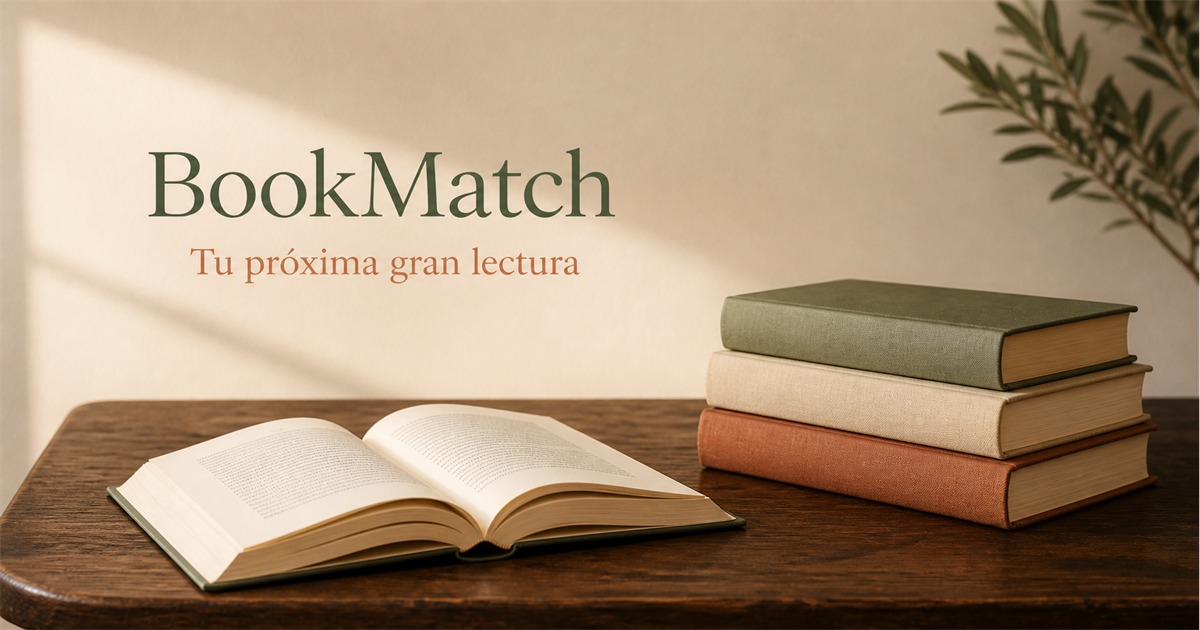
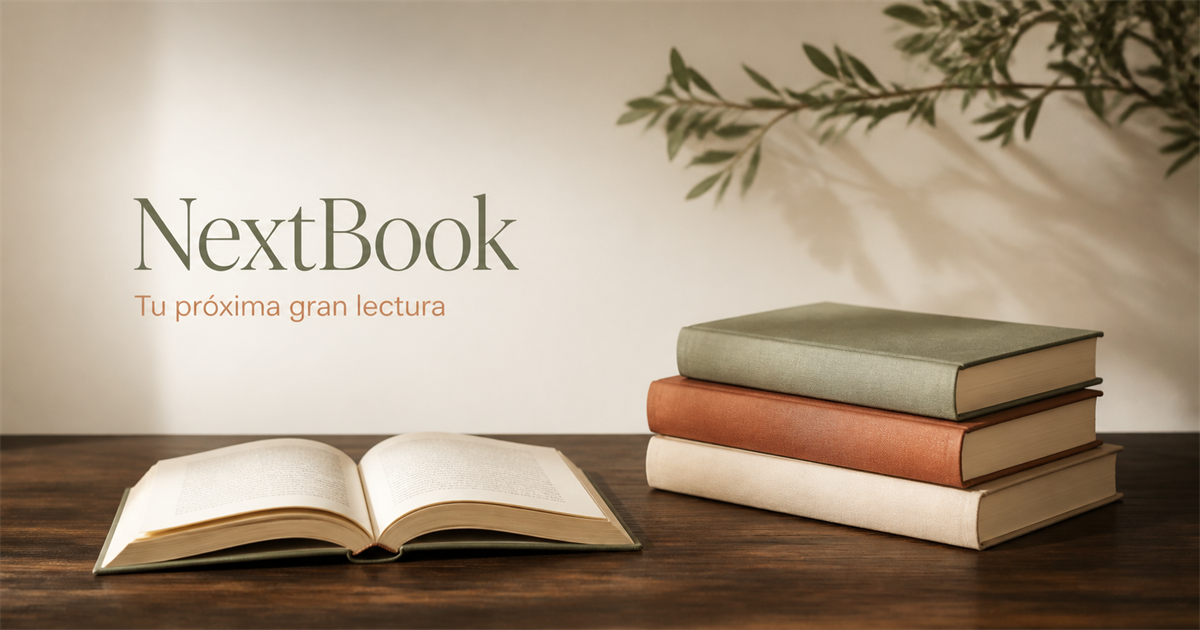
Rename BookMatch to NextBook

diff --git a/app/page.tsx b/app/page.tsx
@@ -110,9 +110,9 @@ export default function Home() {
 function Header({ results }: { results: boolean }) {
   return (
     <header className="mx-auto flex w-full max-w-7xl items-center justify-between px-5 py-5 sm:px-8 lg:px-10">
-      <a className="flex items-center gap-2.5" href="#top" aria-label="BookMatch, inicio">
+      <a className="flex items-center gap-2.5" href="#top" aria-label="NextBook, inicio">
         <span className="grid size-9 place-items-center rounded-full bg-primary text-primary-foreground"><BookOpen className="size-4" /></span>
-        <span className="font-heading text-xl font-semibold tracking-[-0.03em]">BookMatch</span>
+        <span className="font-heading text-xl font-semibold tracking-[-0.03em]">NextBook</span>
       </a>
       <span className="flex items-center gap-2 text-xs font-medium uppercase tracking-[.12em] text-muted-foreground sm:text-sm">
         <Check className="size-4 text-primary" /> {results ? 'Tu selección' : '250 libros analizados'}
@@ -200,7 +200,7 @@ function Question({ step, profile, update, toggleInterest }: QuestionProps) {
   );
 
   if (step === 3) return (
-    <QuestionFrame kicker="Una pista, no una jaula" title="¿Algún género preferido?" description="Puedes elegir uno o dejar que BookMatch te sorprenda.">
+    <QuestionFrame kicker="Una pista, no una jaula" title="¿Algún género preferido?" description="Puedes elegir uno o dejar que NextBook te sorprenda.">
       <div className="grid gap-2 sm:grid-cols-2">
         {genreOptions.map((genre) => <Choice compact key={genre.value} selected={profile.genre === genre.value} onClick={() => update('genre', genre.value)}>{genre.label}</Choice>)}
       </div>
@@ -253,8 +253,8 @@ function Results({ recommendations, profile, onRestart }: { recommendations: Ret
   return (
     <section id="top" className="mx-auto w-full max-w-7xl px-5 pb-20 pt-7 sm:px-8 lg:px-10">
       <div className="grid items-end gap-8 lg:grid-cols-[1fr_420px]">
-        <div><p className="eyebrow">Tu BookMatch</p><h1 className="mt-4 max-w-4xl font-heading text-[clamp(3.2rem,7vw,6.5rem)] leading-[.92] font-semibold tracking-[-0.065em]">Tres libros para tu <span className="text-primary italic">momento lector.</span></h1><p className="mt-6 max-w-2xl text-lg leading-8 text-muted-foreground">Hemos comparado tus respuestas con los 250 títulos del catálogo y estos son los que mejor encajan.</p></div>
-        <div className="overflow-hidden rounded-[1.5rem] border border-border bg-card"><img src="/og.png" alt="Libro abierto y una pila de libros de BookMatch" className="aspect-[1.9/1] h-full w-full object-cover" /></div>
+        <div><p className="eyebrow">Tu NextBook</p><h1 className="mt-4 max-w-4xl font-heading text-[clamp(3.2rem,7vw,6.5rem)] leading-[.92] font-semibold tracking-[-0.065em]">Tres libros para tu <span className="text-primary italic">momento lector.</span></h1><p className="mt-6 max-w-2xl text-lg leading-8 text-muted-foreground">Hemos comparado tus respuestas con los 250 títulos del catálogo y estos son los que mejor encajan.</p></div>
+        <div className="overflow-hidden rounded-[1.5rem] border border-border bg-card"><img src="/og.png" alt="Libro abierto y una pila de libros de NextBook" className="aspect-[1.9/1] h-full w-full object-cover" /></div>
       </div>
 
       <div className="mt-12 grid gap-5 lg:grid-cols-3">

diff --git a/app/layout.tsx b/app/layout.tsx
@@ -2,26 +2,26 @@ import type { Metadata } from 'next';
 import './globals.css';
 
 export const metadata: Metadata = {
-  metadataBase: new URL('https://bookmatch-finder.ginesnavarro2006.chatgpt.site'),
-  title: 'BookMatch — Encuentra tu próxima gran lectura',
+  metadataBase: new URL('https://nextbook-finder.ginesnavarro2006.chatgpt.site'),
+  title: 'NextBook — Encuentra tu próxima gran lectura',
   description: 'Responde unas preguntas y descubre tres libros elegidos para ti.',
   openGraph: {
-    title: 'BookMatch — Tu próxima gran lectura',
+    title: 'NextBook — Tu próxima gran lectura',
     description: 'Responde unas preguntas y descubre tres libros elegidos para ti.',
     type: 'website',
-    url: 'https://bookmatch-finder.ginesnavarro2006.chatgpt.site',
+    url: 'https://nextbook-finder.ginesnavarro2006.chatgpt.site',
     images: [{
-      url: 'https://bookmatch-finder.ginesnavarro2006.chatgpt.site/og.png',
+      url: 'https://nextbook-finder.ginesnavarro2006.chatgpt.site/og.png',
       width: 1200,
       height: 630,
-      alt: 'BookMatch, tu próxima gran lectura',
+      alt: 'NextBook, tu próxima gran lectura',
     }],
   },
   twitter: {
     card: 'summary_large_image',
-    title: 'BookMatch — Tu próxima gran lectura',
+    title: 'NextBook — Tu próxima gran lectura',
     description: 'Responde unas preguntas y descubre tres libros elegidos para ti.',
-    images: ['https://bookmatch-finder.ginesnavarro2006.chatgpt.site/og.png'],
+    images: ['https://nextbook-finder.ginesnavarro2006.chatgpt.site/og.png'],
   },
 };
 
